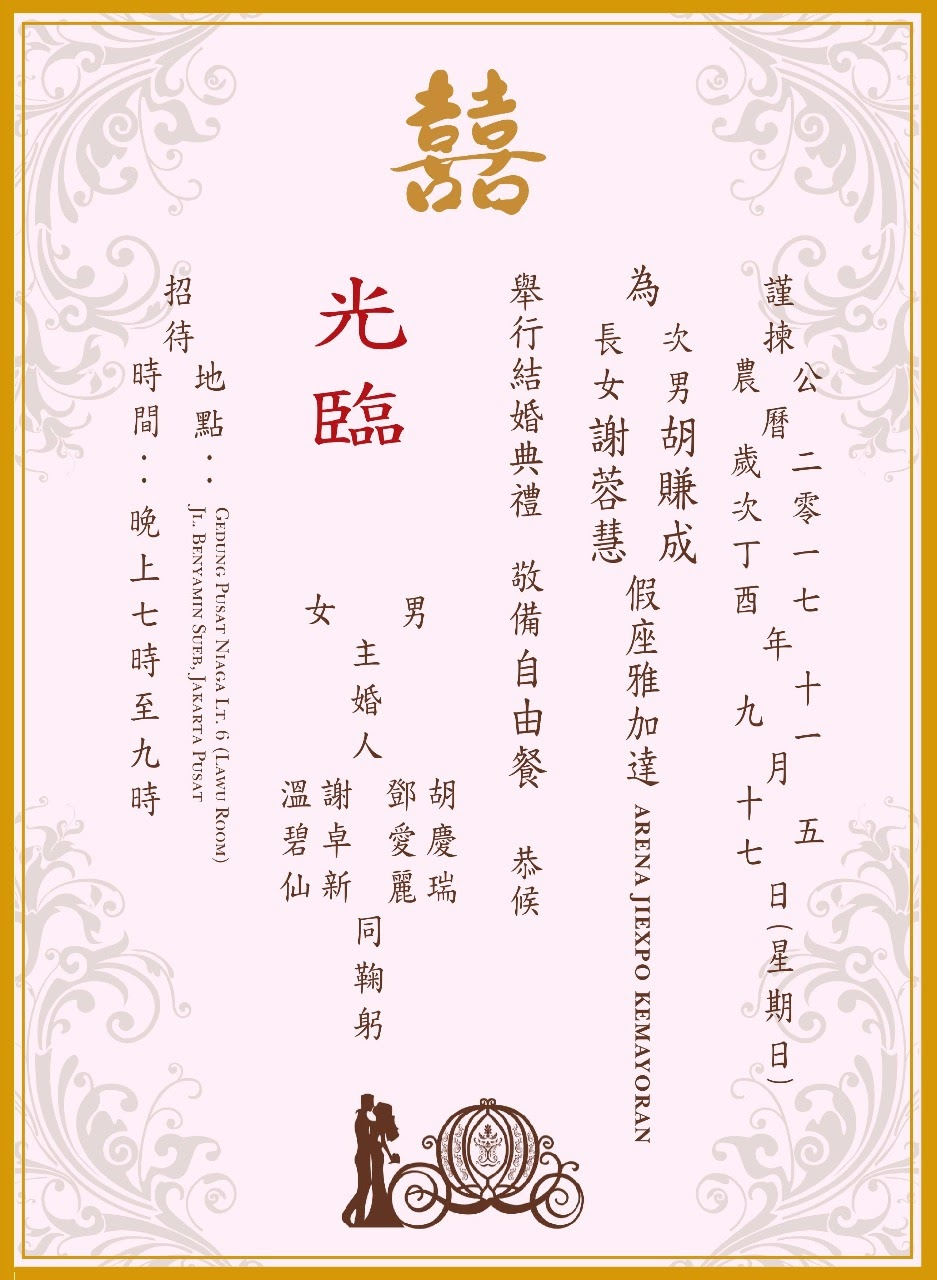
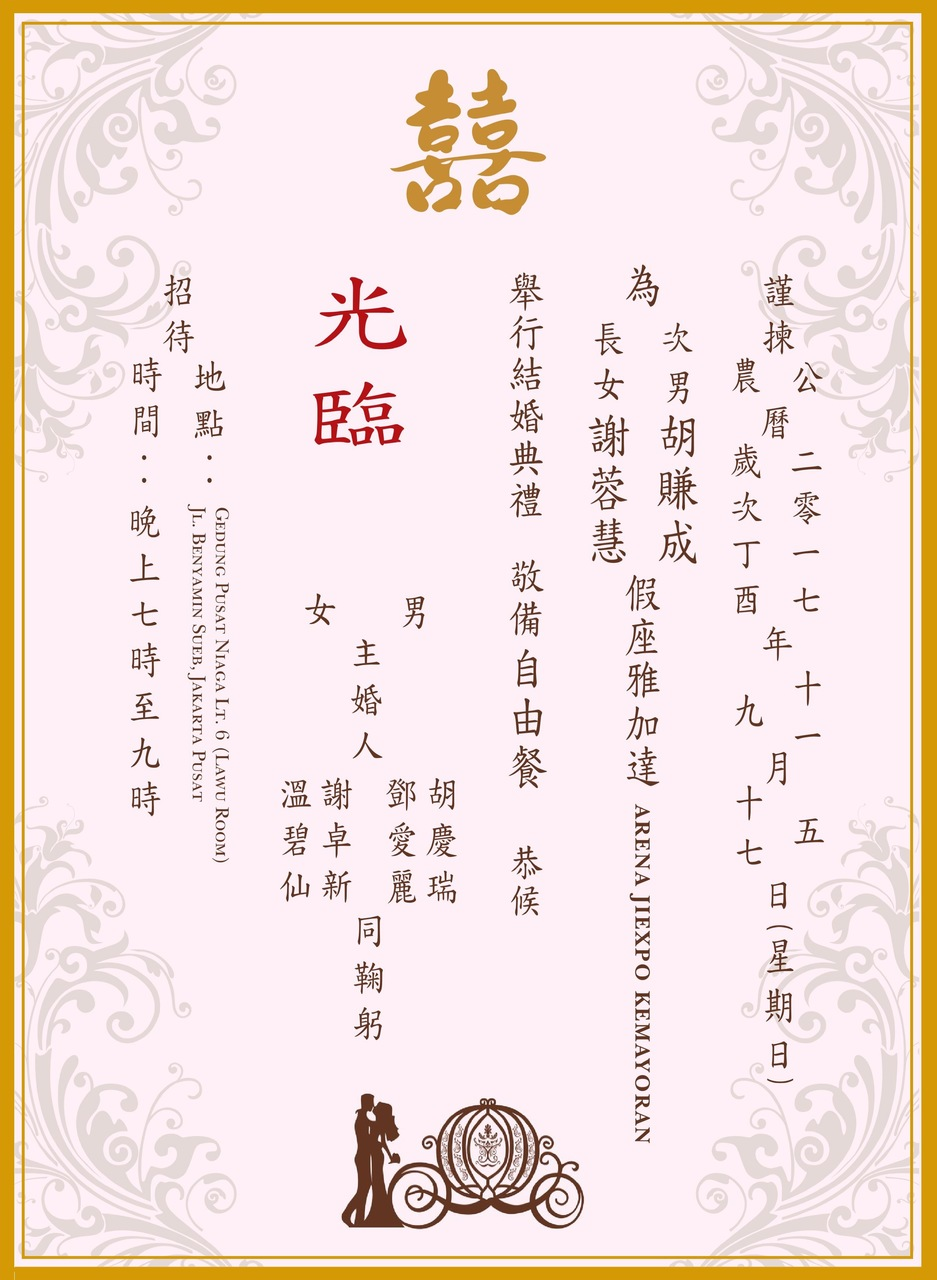
[dennykristle](imp) add gallery and ch invitation

diff --git a/dennykristle/index.html b/dennykristle/index.html
@@ -93,10 +93,28 @@
             <div class="closebt-container close-invitationCard">
               <img class="closebt" src="src/images/closebt.svg"/>
             </div>
-            <div class="modal-content">
+            <div class="modal-content" style="background: #d19804">
               <img class="invitation-card" src="src/images/wedding-invitation.jpg" />
+              <img class="invitation-card" src="src/images/wedding-invitation-ch.jpg" />
             </div>
           </div>
+        </div>
+      </div>
+    </div>
+
+    <div class="pages gallery">
+      <input class="accordion-toggle-checkbox" id="toggle-gallery" type="checkbox" />
+      <label class="tab-title" for="toggle-gallery"><span class="accordion-list-style">&#9656;</span> Gallery</label>
+      <div class="accordion-content">
+        <div class="gallery-list">
+          <div><img src="src/images/gallery/01.jpg" /></div>
+          <div><img src="src/images/gallery/02-ori.jpg" /></div>
+          <div><img src="src/images/gallery/03.jpg" /></div>
+          <div><img src="src/images/gallery/04.jpg" /></div>
+          <div><img src="src/images/gallery/05-ori.jpg" /></div>
+          <div><img src="src/images/gallery/06.jpg" /></div>
+          <div><img src="src/images/gallery/07-ori.jpg" /></div>
+          <div><img src="src/images/gallery/08-ori.jpg" /></div>
         </div>
       </div>
     </div>

diff --git a/dennykristle/src/js/main.js b/dennykristle/src/js/main.js
@@ -36,6 +36,19 @@ $(document).ready( function(e){
     $('#openMapReception').animatedModal({color: 'rgb(78, 78, 78)'});
     $('#openInvitationCard').animatedModal({color: 'rgb(78, 78, 78)'});
 
+    // initiate gallery viewer
+    new Viewer( $('.gallery-list')[0], {
+      url: function(img){
+        return img.src;
+      }
+    });
+    $('.gallery-list').click(function(){
+      var viewer = new Viewer(this, {
+        url: function(img){
+          return img.src;
+        }
+      });
+    });
   }
 
 

diff --git a/dennykristle/src/css/main.css b/dennykristle/src/css/main.css
@@ -218,5 +218,5 @@ h2 {
 }
 
 img.invitation-card {
-  width: 100%;
+  width: 45%;
 }
